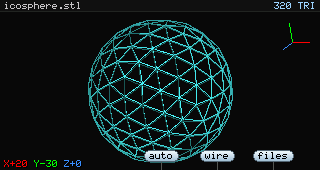
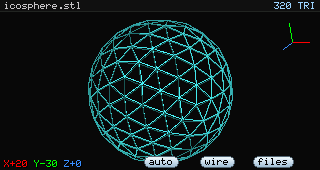
Remove the key guide lines and lower the buttons
Drop the 1px pointers and put the buttons back near the bottom edge at
y=156. Refresh the screenshots; the help overlay still hides them.

Changed region(s): [[0.7812, 0.8824, 0.9375, 1.0], [0.625, 0.8824, 0.75, 1.0], [0.4375, 0.8824, 0.5625, 1.0]]

diff --git a/src/ui.cpp b/src/ui.cpp
@@ -262,7 +262,7 @@ void drawUi(Canvas& canvas, const UiState& state) {
               0x3C7F);
 
     const int pill_h = 12;
-    const int pill_y = hint_y - 8;
+    const int pill_y = hint_y - 2;
 
     // The buttons and their key guides would collide with the help panel.
     if (!state.help) {
@@ -289,12 +289,6 @@ void drawUi(Canvas& canvas, const UiState& state) {
         drawLabelPill(canvas, 273, pill_y, pill_h, "files",
                       Theme::kPillBackground);
 
-        // 1px guides pointing down at the physical 6 / 7 / 8 keys.
-        constexpr int kKeyGuides[] = {161, 217, 273};
-        const int guide_top = pill_y + pill_h;
-        for (int x : kKeyGuides) {
-            canvas.fillRect(x, guide_top, 1, h - guide_top, 0x52AA);
-        }
     }
 
     // Transient toast (screenshot saved, etc.), styled like the other popups.

diff --git a/docs/DESIGN.md b/docs/DESIGN.md
@@ -183,9 +183,8 @@ buttons float directly over the render. The axis text gets a one-pixel dark drop
 contrast. A tap on `6` cycles the auto modes on key release; holding it for
 0.6 s stops auto-rotate while the key is still down. The buttons are fully
 rounded pills with a dark rim, a vertical face gradient, a bright top edge
-and a soft drop shadow. Each drops a 1px guide line to the bottom edge,
-pointing at the physical 6 / 7 / 8 key below the display; the buttons and
-guides are hidden while the help overlay is open. The auto-rotate toggle sits at x=161 (`auto`, `auto x`,
+and a soft drop shadow. The buttons are hidden while the help overlay is
+open so they do not collide with the panel. The auto-rotate toggle sits at x=161 (`auto`, `auto x`,
 `auto y`, `auto z`; mint green when running) under the `6` key, a render-style
 button at x=217 (`solid`, `edges`, `matcap` or `wire`) under the `7` key, and a
 `files` button at x=273 under the `8` key. `8` opens the file browser. The 3D
